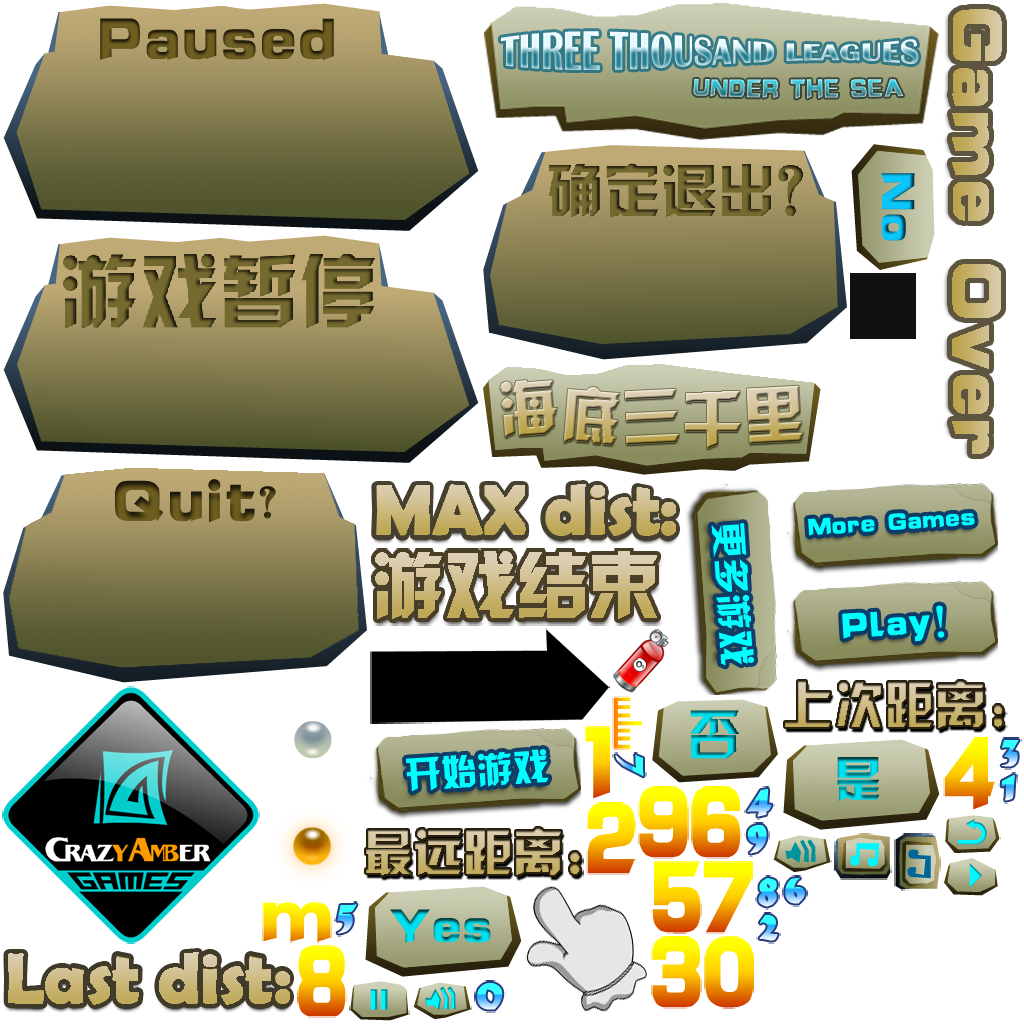
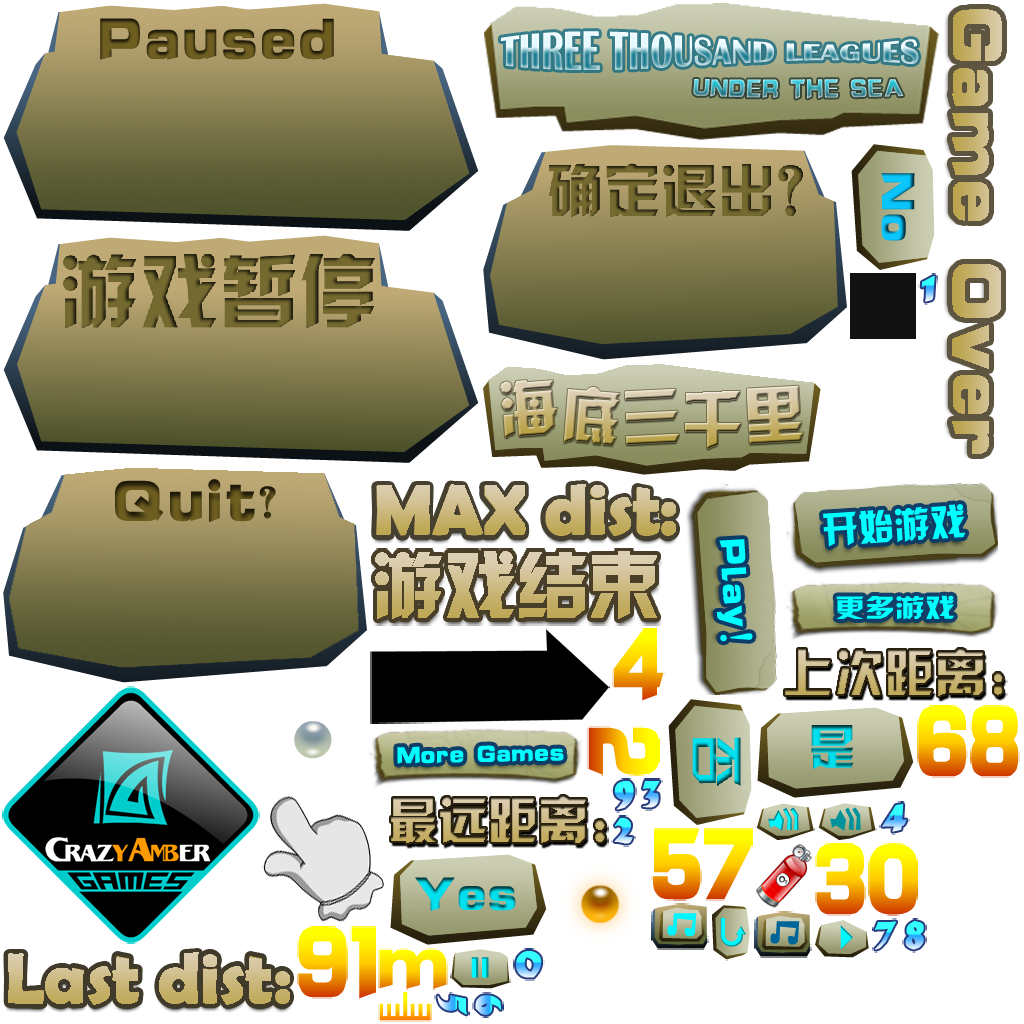
moregames

Changed region(s): [[0.25, 0.4688, 1.0, 1.0], [0.9062, 0.25, 0.9375, 0.3125]]

diff --git a/Classes/TSStagePlayLayerGamePrepare.cpp b/Classes/TSStagePlayLayerGamePrepare.cpp
@@ -396,6 +396,10 @@ void TSStagePlayLayerGamePrepare::onEvent(CAEvent* pevt)
 				{
 					this->setConditionResult("root.running@user.play", true);
 				}
+				else if (name == "button_moregames")
+				{
+					postGameEvent("play_state", "share");
+				}
 				else if (name == "button_sound")
 				{
 					if (stage()->isSoundMute() || stage()->isMusicMute())

diff --git a/Classes/TSSpriteButton.cpp b/Classes/TSSpriteButton.cpp
@@ -43,7 +43,7 @@ void TSSpriteButton::_onAnimationStop()
 	CASpriteModelPose* ppose = this->getCurrentPose();
 	if (ppose->name() == ButtonPose_Pressed)
 	{
-		//setState(ButtonPose_Stand);
+		setState(ButtonPose_Stand);
 	}
 	if (_settings().hasKey(ButtonPose_DeadPose))
 	{
